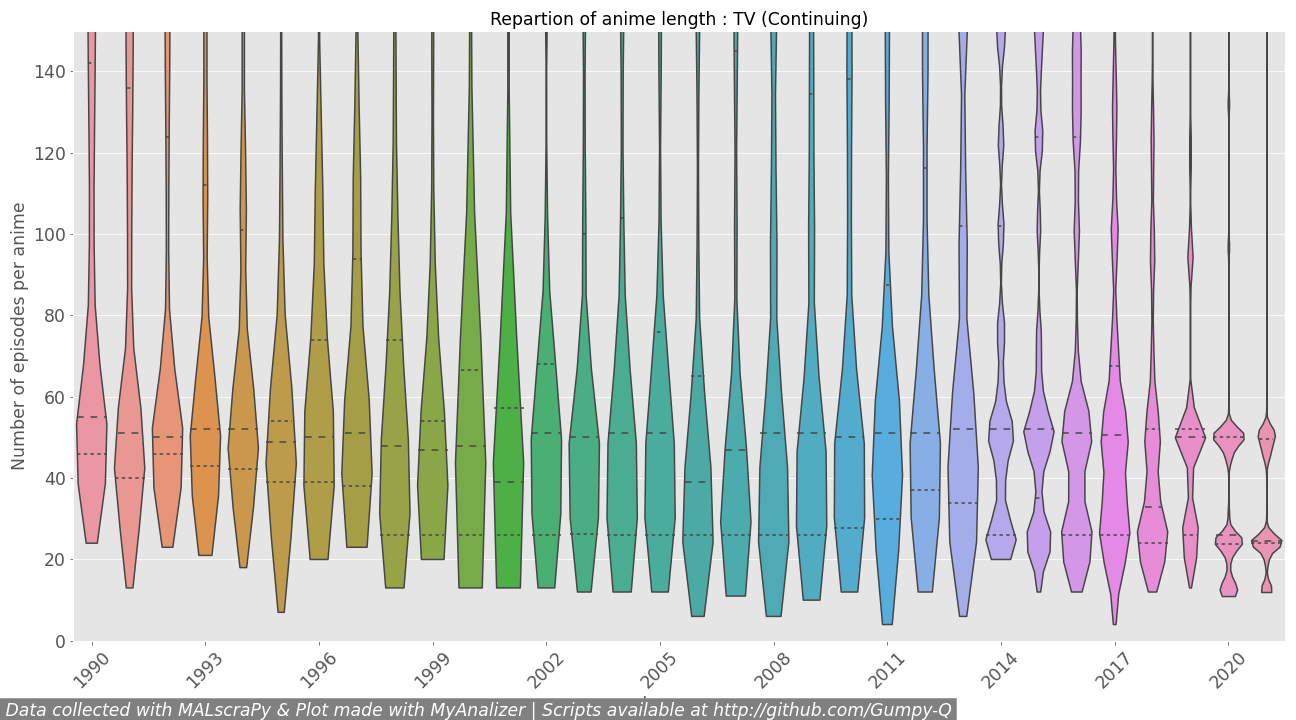
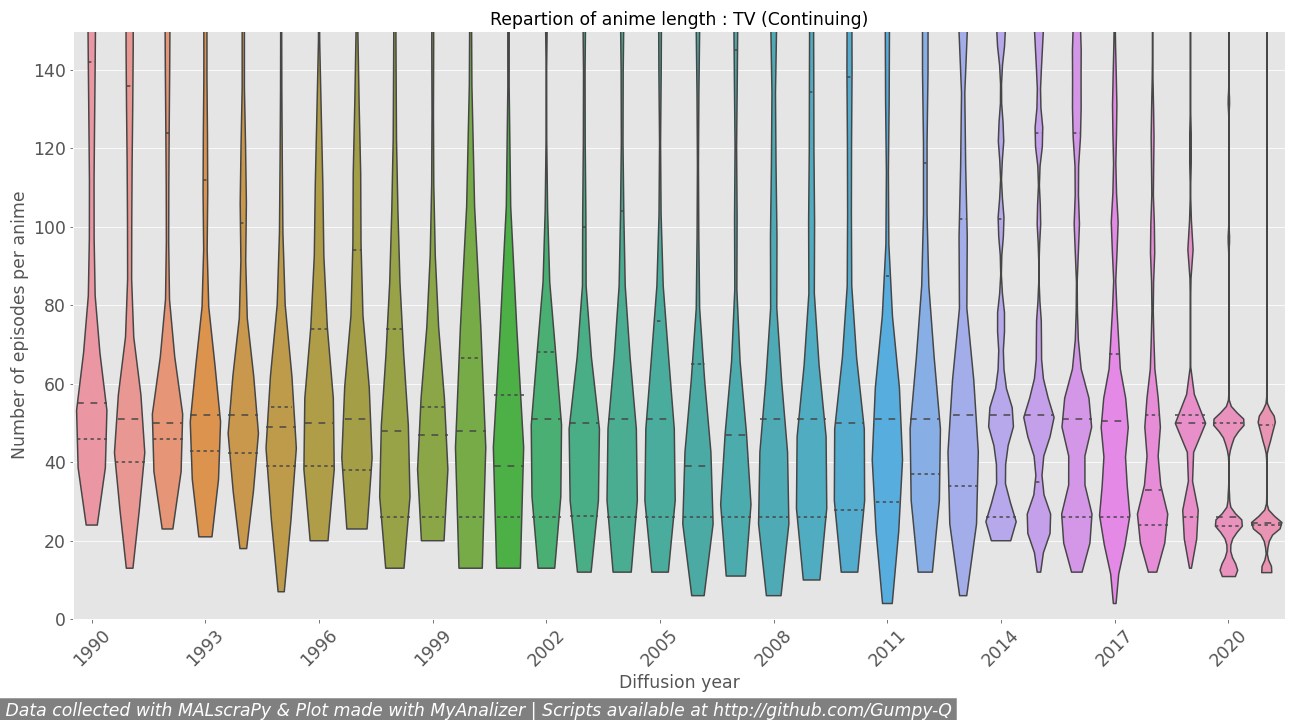
Change plot grid if less anime types

diff --git a/MyAnalizer.py b/MyAnalizer.py
@@ -146,31 +146,6 @@ def production_year(df,min_year,max_year,anitypes,color_list): #To vizualize the
 
     return fig
 
-def episode(df,min_year,max_year,anitype,max_shown): #This function is showing the repartition of anime'lenght in the year
-    select_year=df[(df['type']==anitype) & (df['episodes']>0) & (df['release-year']>=min_year) & (df['release-year']<=max_year)] #Limit my dataframe
-    
-    print('------------ plotting evolution of anime length ------------')
-    
-    fig, ax =plt.subplots(figsize=enlarge_fig)
-    ax=sb.violinplot(x='release-year',y='episodes',data=select_year,bw=.05,cut=0, scale='width',inner='quartile',orientation='h') 
-    ax.tick_params('x',labelrotation=45, labelsize=font)
-    ax.tick_params('y', labelsize=font)
-    ax.set_ylabel('Number of episodes per anime',fontsize=font)
-    ax.xaxis.label.set_size(font)
-    ax.set(ylim=(0,max_shown))
-    ax.set_title('Repartion of anime length : '+ anitype,fontsize=font)
-    ax.xaxis.set_major_locator(MaxNLocator(integer=True,nbins=12,prune='both')) #
-    
-    signature(fig)
-    
-    fig.tight_layout()    
-    fig.subplots_adjust(bottom=adjust['bottom'])
-    
-    fig.savefig(savepath+'/episode_'+anitype+'-'+str(start_year)+'-'+str(end_year))
-    fig.show()
-    
-    return fig    
-
 def source(df,min_year,max_year,anitypes,color_list,thresold): 
         
     select_years=df[(df['release-year']<=max_year) & (df['release-year']>=min_year)] #remove years out of study scope
@@ -204,9 +179,17 @@ def source(df,min_year,max_year,anitypes,color_list,thresold):
     print('------------ plotting evolution of source material ------------')    
                 
     if len(anitypes)>1:
-        fig, axes = plt.subplots(2,3,figsize=enlarge_fig) #building a subplot for the 6 anime types
-        axes = axes.flatten()
         
+        if len(anitypes)>4:
+            fig, axes = plt.subplots(2,3,figsize=enlarge_fig) #building a subplot for the 6 anime types
+            axes = axes.flatten()
+        elif len(anitypes)==2:
+            fig, axes = plt.subplots(1,2,figsize=enlarge_fig) #building a subplot for the 6 anime types
+            axes = axes.flatten()
+        else:
+            fig, axes = plt.subplots(2,2,figsize=enlarge_fig) #building a subplot for the 6 anime types
+            axes = axes.flatten()
+            
         for anime_type,ax in zip(anitypes,axes): #Season and plot goes together so I zip them
             df_type=select_years[select_years['type']==anime_type].sort_values('release-year') #reducing the DataFrame to the season studied I need the year to be at the right order for the stacking
             print('--------------'+anime_type)
@@ -237,6 +220,32 @@ def source(df,min_year,max_year,anitypes,color_list,thresold):
     fig.show()
     
     return fig
+
+def episode(df,min_year,max_year,anitype,max_shown): #This function is showing the repartition of anime'lenght in the year
+    select_year=df[(df['type']==anitype) & (df['episodes']>0) & (df['release-year']>=min_year) & (df['release-year']<=max_year)] #Limit my dataframe
+    
+    print('------------ plotting evolution of anime length ------------')
+    
+    fig, ax =plt.subplots(figsize=enlarge_fig)
+    ax=sb.violinplot(x='release-year',y='episodes',data=select_year,bw=.05,cut=0, scale='width',inner='quartile',orientation='h') 
+    ax.tick_params('x',labelrotation=45, labelsize=font)
+    ax.tick_params('y', labelsize=font)
+    ax.set_ylabel('Number of episodes per anime',fontsize=font)
+    ax.set_xlabel('Diffusion year',fontsize=font)
+    ax.xaxis.label.set_size(font)
+    ax.set(ylim=(0,max_shown))
+    ax.set_title('Repartion of anime length : '+ anitype,fontsize=font)
+    ax.xaxis.set_major_locator(MaxNLocator(integer=True,nbins=12,prune='both')) #
+    
+    signature(fig)
+    
+    fig.tight_layout()    
+    fig.subplots_adjust(bottom=adjust['bottom']+0.03)
+    
+    fig.savefig(savepath+'/episode_'+anitype+'-'+str(start_year)+'-'+str(end_year))
+    fig.show()
+    
+    return fig    
 
                 #SECTION 3 CHOICE
 again=['Yes']
